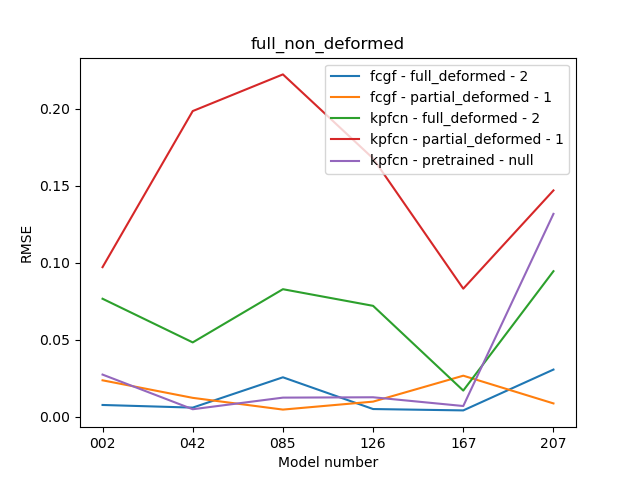
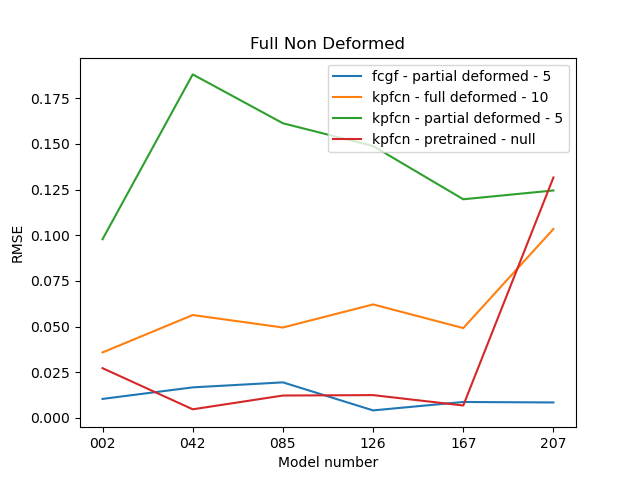
Adding the plots, need to also add the data for full deformed but fcgf

diff --git a/Testing/all/aggregate_data_all_weights_per_datatype.py b/Testing/all/aggregate_data_all_weights_per_datatype.py
@@ -6,12 +6,12 @@ data_types = ['full_deformed', 'partial_deformed', 'full_non_deformed', 'partial
 
 weights = {
     'fcgf' : {
-        'full_deformed' : 2, 
-        'partial_deformed' : 1
+        # 'full_deformed' : 10, 
+        'partial_deformed' : 5
     }, 
     'kpfcn' : {
-        'full_deformed' : 2, 
-        'partial_deformed' : 1,
+        'full_deformed' : 10, 
+        'partial_deformed' : 5,
         'pretrained' : 'null'
     }
 }
@@ -75,7 +75,8 @@ for data_type in data_types:
         for training_data_type in weights[feature_extractor]:
             
             epoch = str(weights[feature_extractor][training_data_type])
-            weights_legend = feature_extractor + ' - ' + training_data_type + ' - ' + epoch 
+            training_data_type_mod = training_data_type.replace('_', ' ')
+            weights_legend = feature_extractor + ' - ' + training_data_type_mod + ' - ' + epoch 
             legend.append(weights_legend)
             data = get_data(data_type, feature_extractor, training_data_type)
             rmse = []             
@@ -86,8 +87,10 @@ for data_type in data_types:
     
     plt.xlabel("Model number")
     plt.ylabel("RMSE")
-    plt.legend(legend)
-    plt.title(data_type, wrap=True)
+    plt.legend(legend, loc='upper right')
+    title = data_type.replace('_', ' ')
+    title = title.title()
+    plt.title(title, wrap=True)
     plt.savefig('Testing/all/per_data_type_' + data_type + '_rmse.png')
 
 for data_type in data_types:
@@ -100,7 +103,8 @@ for data_type in data_types:
         for training_data_type in weights[feature_extractor]:
             
             epoch = str(weights[feature_extractor][training_data_type])
-            weights_legend = feature_extractor + ' - ' + training_data_type + ' - ' + epoch 
+            training_data_type_mod = training_data_type.replace('_', ' ')
+            weights_legend = feature_extractor + ' - ' + training_data_type_mod + ' - ' + epoch 
             legend.append(weights_legend)
             data = get_data(data_type, feature_extractor, training_data_type)
             relaxed_ir = []             
@@ -111,7 +115,9 @@ for data_type in data_types:
     
     plt.xlabel("Model number")
     plt.ylabel("Relaxed IR")
-    plt.legend(legend)
-    plt.title(data_type, wrap=True)
+    plt.legend(legend, loc='upper right')
+    title = data_type.replace('_', ' ')
+    title = title.title()
+    plt.title(title, wrap=True)
     plt.savefig('Testing/all/per_data_type_' + data_type + '_relaxed_ir.png')
             
